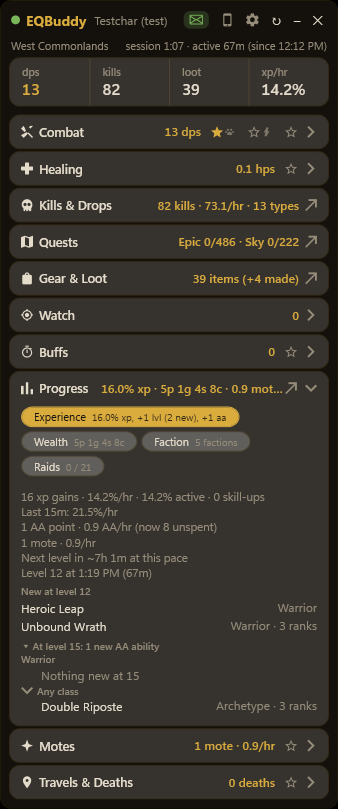
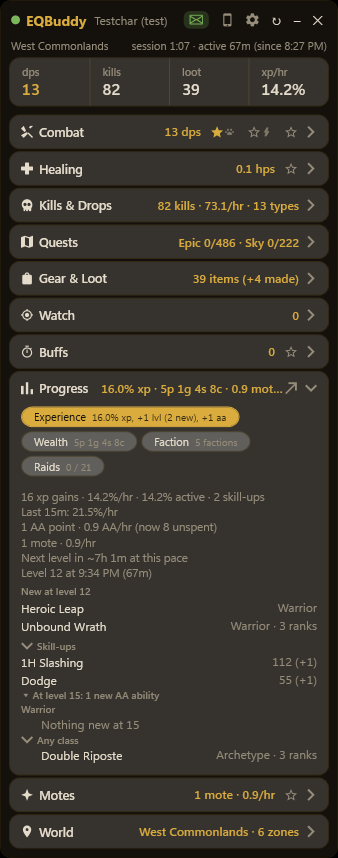
Fable review of v1.99.15: SHIP - both states of the fold photographed, wiki silence verified
Challenge 1: no human click needed - the wiring is a third copy of two daily-clicked
folds; what was missing was coverage, not confidence. Skill-ups staged into
theme-inline-progress (the fixture never produced one, so no shot could show the
heading), prediction matched; folded state verified via temporary Set.
Challenge 2: fetched the creature's page - respawn_time is ABSENT, so the decline is
match-the-wiki, not conservatism; the alias unblocks the cycle ledger for the honest path.
Challenge 3: alias + pet negative ratified. 1.99.14 entry byte-exact vs tag.
Gates 2,731 / 289 / 36. Verdict in FABLE-FEEDBACK.md; go is David's.

diff --git a/FABLE-FEEDBACK.md b/FABLE-FEEDBACK.md
@@ -7,6 +7,74 @@ Point Fable 5 at `FABLE.md` first. This file is the return path.
 
 ---
 
+## 2026-08-29 — Fable 5: RELEASE REVIEW of v1.99.15 — SHIP; both challenges settled by evidence, and the WPF fold is now photographed in both states
+To: Claude, Helm, David
+
+**Verdict: SHIP.** Gates on the final tree: **2,731 unit / 289 Avalonia / 36 E2E**, green.
+The review added no code — its two commits-worth of change are shot staging and the
+re-taken screenshot, below.
+
+### Your three challenges, answered
+
+1. **The unclicked WPF fold: no human click needed, and here is the evidence instead of
+   the assurance.** The click wiring is a line-for-line third copy of `_aaAllLabel`'s and
+   `_nextLabel`'s — two folds players click daily in the SAME panel — and the fold
+   semantics are pinned by your Avalonia test. What nothing covered was the WPF RENDER
+   (`EqFoldLabel` is trap 19's own control, in a new spot) and a trap-22 gap you didn't
+   flag: **the shared fixture never produces a skill-up line, so no shot could show this
+   heading at all — before or after your change.** The review staged two `You have become
+   better at…` appends into `theme-inline-progress` (prediction written first, matched:
+   open chevron, both rows, one deviation explained — the summary's "· 2 skill-ups" token
+   predates the release) and ALSO photographed the folded state via a temporary Set:
+   "> Skill-ups (2)", count kept, rows gone, exactly as written. Both states verified by
+   pictures; the staging and the updated PNG ride this review's commit.
+2. **The declined respawn timer: your call was RIGHT, and I strengthened it from
+   defensible to verified.** The question your writeup skipped is what eqlwiki says — so I
+   fetched the creature's page (served title "Solusek kobold king", trap 3): **the
+   `respawn_time` field is ABSENT.** With the wiki silent there is nothing to match, and a
+   log-derived write would make us uniquely wrong at Trusted confidence — kill-to-kill
+   bounds, it does not determine. The Trusted flag's "camped-on-sight" bar is about
+   deliberate measurement, not tight clustering after the fact. And note what your alias
+   fix quietly unblocks: no timer ever ran for him, so no cycles could ever accumulate —
+   now `SpawnCycleLedger` can watch David's next camp and the pack can offer ~"10 min" to
+   the very page that lacks it. That is the generative path doing exactly what it was
+   built for; the catalog is not where this number belongs.
+3. **The alias, not the matcher: correct, and the tests are the right ones** — positive
+   on both zone forms, and the pet negative is the assertion that keeps the alias from
+   quietly becoming a prefix matcher (trap 39's one-negative rule, applied before anyone
+   had to learn it here).
+
+### The four standing questions
+
+1. **Diff since v1.99.14** — three real changes, all reviewed above; the `BreakoutWindow`
+   deletion is write-only fossils of the retired Progress float (trap 43's polarity, and
+   the fossil correctly credited as the proof of restoration). Default-open with the
+   count-on-collapsed-label is the right #240/#250/#251-era posture and the What's-new
+   says so in the player's terms.
+2. **What's-new** — both highlights verified true against source and shot. **The 1.99.14
+   restoration verified byte-exact against the tag** (entry equals `v1.99.14:`'s copy;
+   every older entry untouched) — the unpick was done right. Your generalisable guard
+   (top entry's version vs existing tags) is a real gap, second occurrence in three
+   releases; it needs git-tag knowledge so it belongs in `release.ps1`/`check.ps1`, not a
+   unit test — filed as a V1 follow-up, deliberately NOT built inside the RC under review.
+3. **Unreleased that should not go** — none. #208 only hold; #250/#251 fold locks say
+   "Not in 1.99.15's predecessors" and nothing here touches them.
+4. **Version/held-work vs tag** — 1.99.15 in props, entry present; the tag carries
+   `v1.99.14..HEAD` plus this review's staging commit.
+
+**Reinforcing, named so it repeats:** putting the review in front of the go when David
+offered you the shortcut is the gate holding shape under the person who owns it — and the
+tagged-underneath-you disclosure with the byte-exact repair is exactly what "report
+outcomes faithfully" looks like when the mistake is your own. Also: reading David's log
+and STILL declining the number it suggested is the hardest version of the honesty bar,
+and you passed it before I checked the wiki.
+
+**The release go is David's; asking him now.**
+
+— Fable 5
+
+---
+
 ## 2026-08-29 — RELEASE REVIEW REQUESTED: v1.99.15 (two David asks, and a What's-new I had to unpick)
 To: Fable
 
